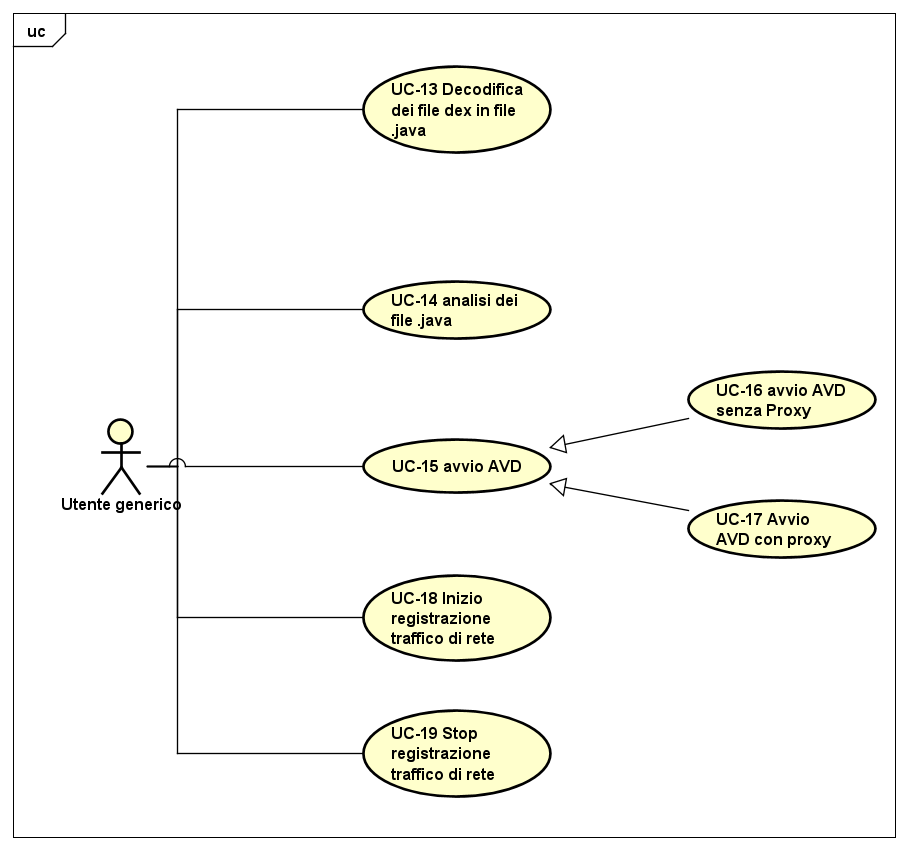
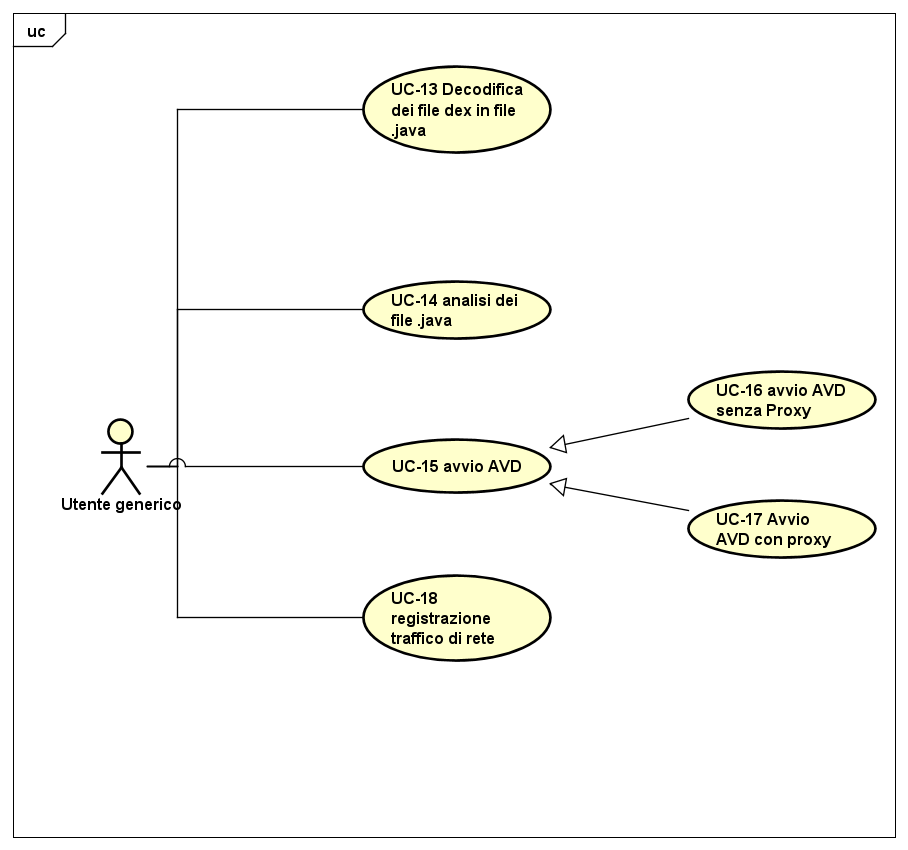
correzione casi d'uso e il diagramma

Changed region(s): [[0.4009, 0.8259, 0.6167, 0.9482], [0.185, 0.7341, 0.2159, 0.8871], [0.4934, 0.7035, 0.5242, 0.7341]]

diff --git a/capitoli/4_1_casi_uso.tex b/capitoli/4_1_casi_uso.tex
@@ -356,10 +356,11 @@
     \item \textbf{attori:} attore generico;
     \item \textbf{descrizione:} quando l'utente vuole registrare le attività di rete effettuate dall'AVD eseguendo l'applicazione, può utilizzare questa funzionalità;
     \item \textbf{pre-condizioni:} l'attore ha avviato l'applicazione;
-    \item \textbf{post-condizioni:} l'attore ha avviato la registrazione del traffico di rete;
+    \item \textbf{post-condizioni:} l'attore ha registrato le attività di rete e ottenuto un file cap;
     \item \textbf{flusso degli eventi principali:}
     \begin{itemize}
-        \item l'attore seleziona la voce "Start record!".
+        \item l'attore seleziona la voce "Start record!";
+        \item l'attore successivamente seleziona la voce "Stop Record".
     \end{itemize}
 \end{itemize}
 \begin{figure}[H]
@@ -367,17 +368,7 @@
     \includegraphics[width=10cm, height=8cm]{./immagini/usecase/UC-13_14.png}
     \caption{Casi d'uso 13 a 19}
 \end{figure}
-\subsection{UC-19 Stop registrazione traffico di rete}\label{subsec:uc-19-stop-registrazione-traffico-di-rete}
-\begin{itemize}
-    \item \textbf{attori:} attore generico;
-    \item \textbf{descrizione:}quando l'utente vuole registrare le attività di rete effettuate dall'AVD eseguendo l'applicazione, può utilizzare questa funzionalità per fermare la registrazione;
-    \item \textbf{pre-condizioni:} l'attore ha avviato la registrazione delle attività di rete;
-    \item \textbf{post-condizioni:} l'attore ha fermato la registrazione delle attività di rete correttamente, e ha ottenuto un file di registro contenente tutte le attività di rete.
-    \item \textbf{flusso degli eventi principali:}
-    \begin{itemize}
-        \item l'attore seleziona la voce "Stop Record".
-    \end{itemize}
-\end{itemize}
+
 %\subsection{UC-}
 %\begin{itemize}
 %    \item \textbf{attori:} attore generico;

diff --git a/inizio-fine/dedica.tex b/inizio-fine/dedica.tex
@@ -13,8 +13,9 @@
 \vspace*{3cm}
 
 \begin{center}
-    I wish the day were pure and all I met was tenderness.\\ \medskip
     但愿日子清净, 抬头遇见的都是柔情.\\ \medskip
+    "Così come in algebra due affermazioni false ne danno una vera, così spero che il prodotto dei miei insuccessi si concluda con un successo." \medskip
+    --V. Van Gogh
 \end{center}
 
 \medskip
